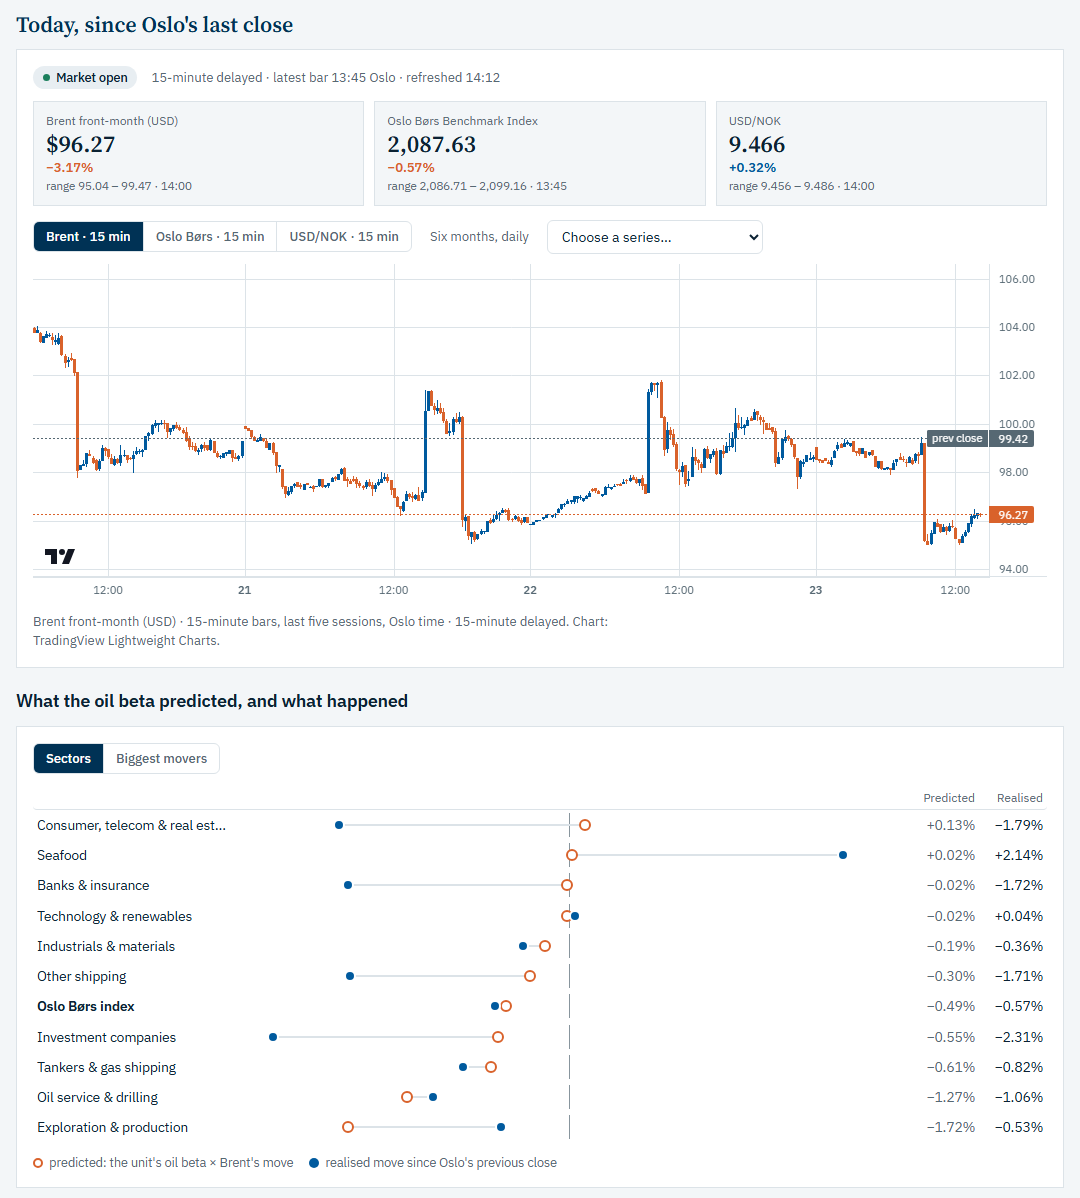
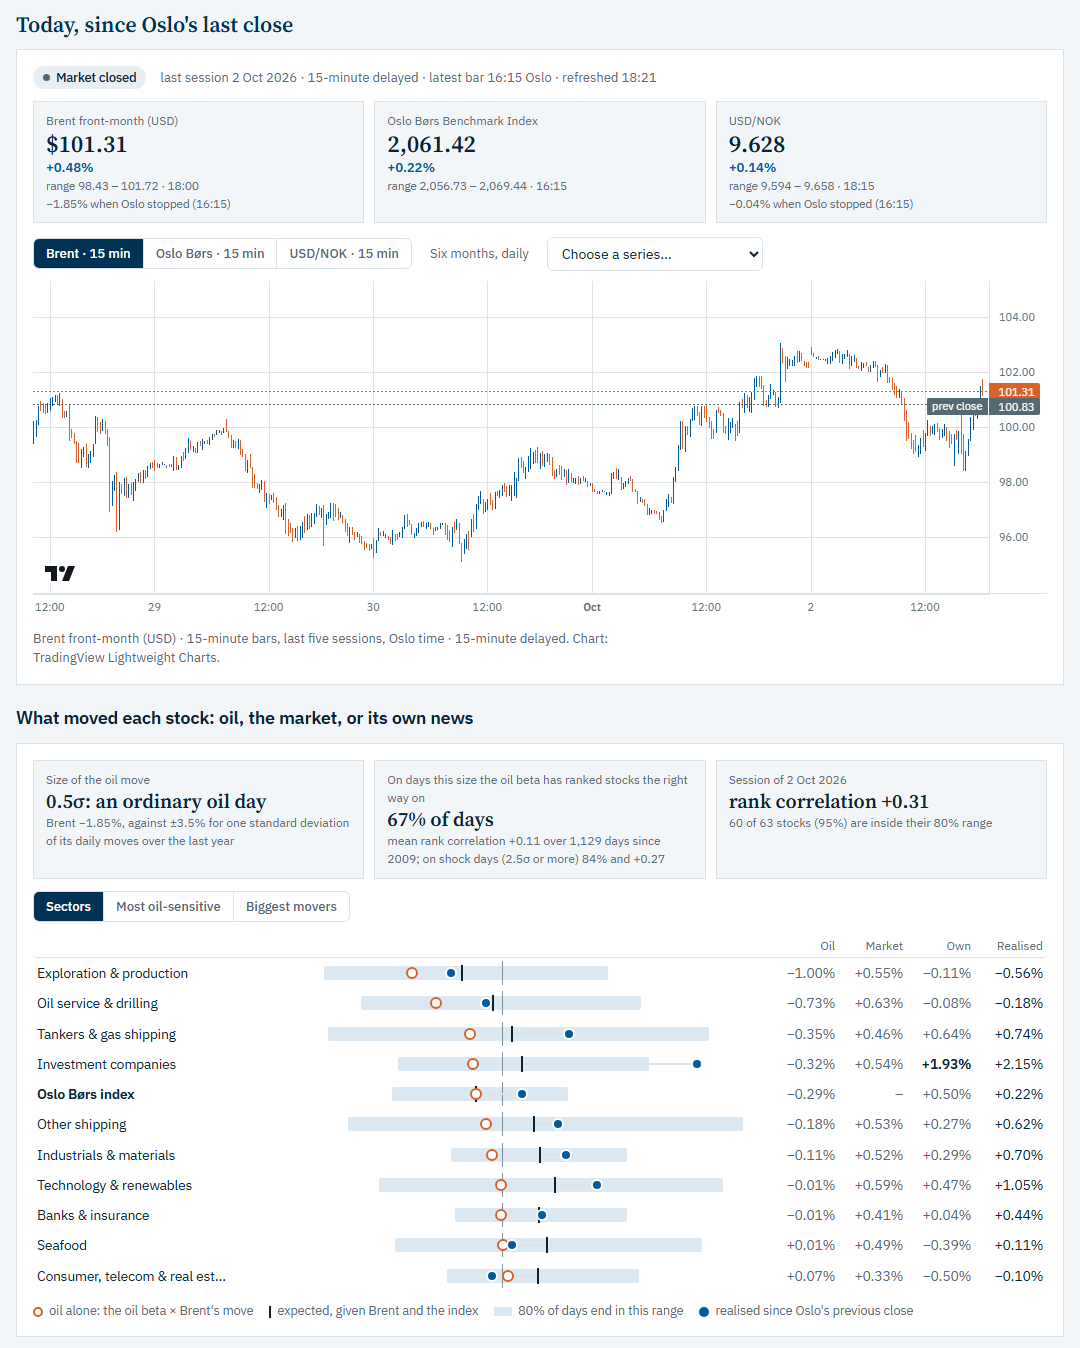
README: show the Today panel as it is now
The screenshots at the top showed the old panel, with "predicted" beside
"realised". They now show the session of 2 October 2026 after the close,
taken from the deployed page in both colour schemes: Brent's live move and
its move when Oslo stopped, the signal strip, and each sector's move split
into oil, the market beyond oil and its own news.

diff --git a/README.md b/README.md
@@ -9,11 +9,13 @@ https://oscarschjelderup-sketch.github.io/oslo-oil-sensitivity/**
 
 <picture>
   <source media="(prefers-color-scheme: dark)" srcset="docs/img/live_today_dark.png">
-  <img alt="The live monitor at 14:12 on 23 September 2026, Brent 3.2% below Oslo's previous close: a TradingView-style chart of the last five sessions, and each sector's oil-beta prediction for the move next to what actually happened" src="docs/img/live_today.png">
+  <img alt="The live monitor after the close on 2 October 2026: a TradingView-style chart of the last five sessions, and each sector's move split into oil, the market beyond oil and its own news, with the range in which most days end" src="docs/img/live_today.png">
 </picture>
 
-*The monitor at 14:12 on 23 September 2026, with Brent 3.2% below Oslo's previous close: 15-minute candles drawn with TradingView's Lightweight Charts,
-and what each sector's oil beta predicted for the move next to what happened. Quotes are 15-minute delayed.*
+*The monitor after the close on 2 October 2026. Brent was 1.85% below Oslo's previous close when Oslo stopped, half a standard
+deviation: on days this size the oil beta has ranked stocks the right way two days in three. Each sector's move is split into
+oil, the market beyond oil and its own news, next to the range in which it ends on 80% of days. 15-minute candles drawn with
+TradingView's Lightweight Charts; quotes are 15-minute delayed.*
 
 **A factor study of 63 Norwegian stocks and 10 sectors, 2007–2026: how much each one moves when Brent moves, how sure
 we can be about it, and whether that knowledge survives an out-of-sample test.**
